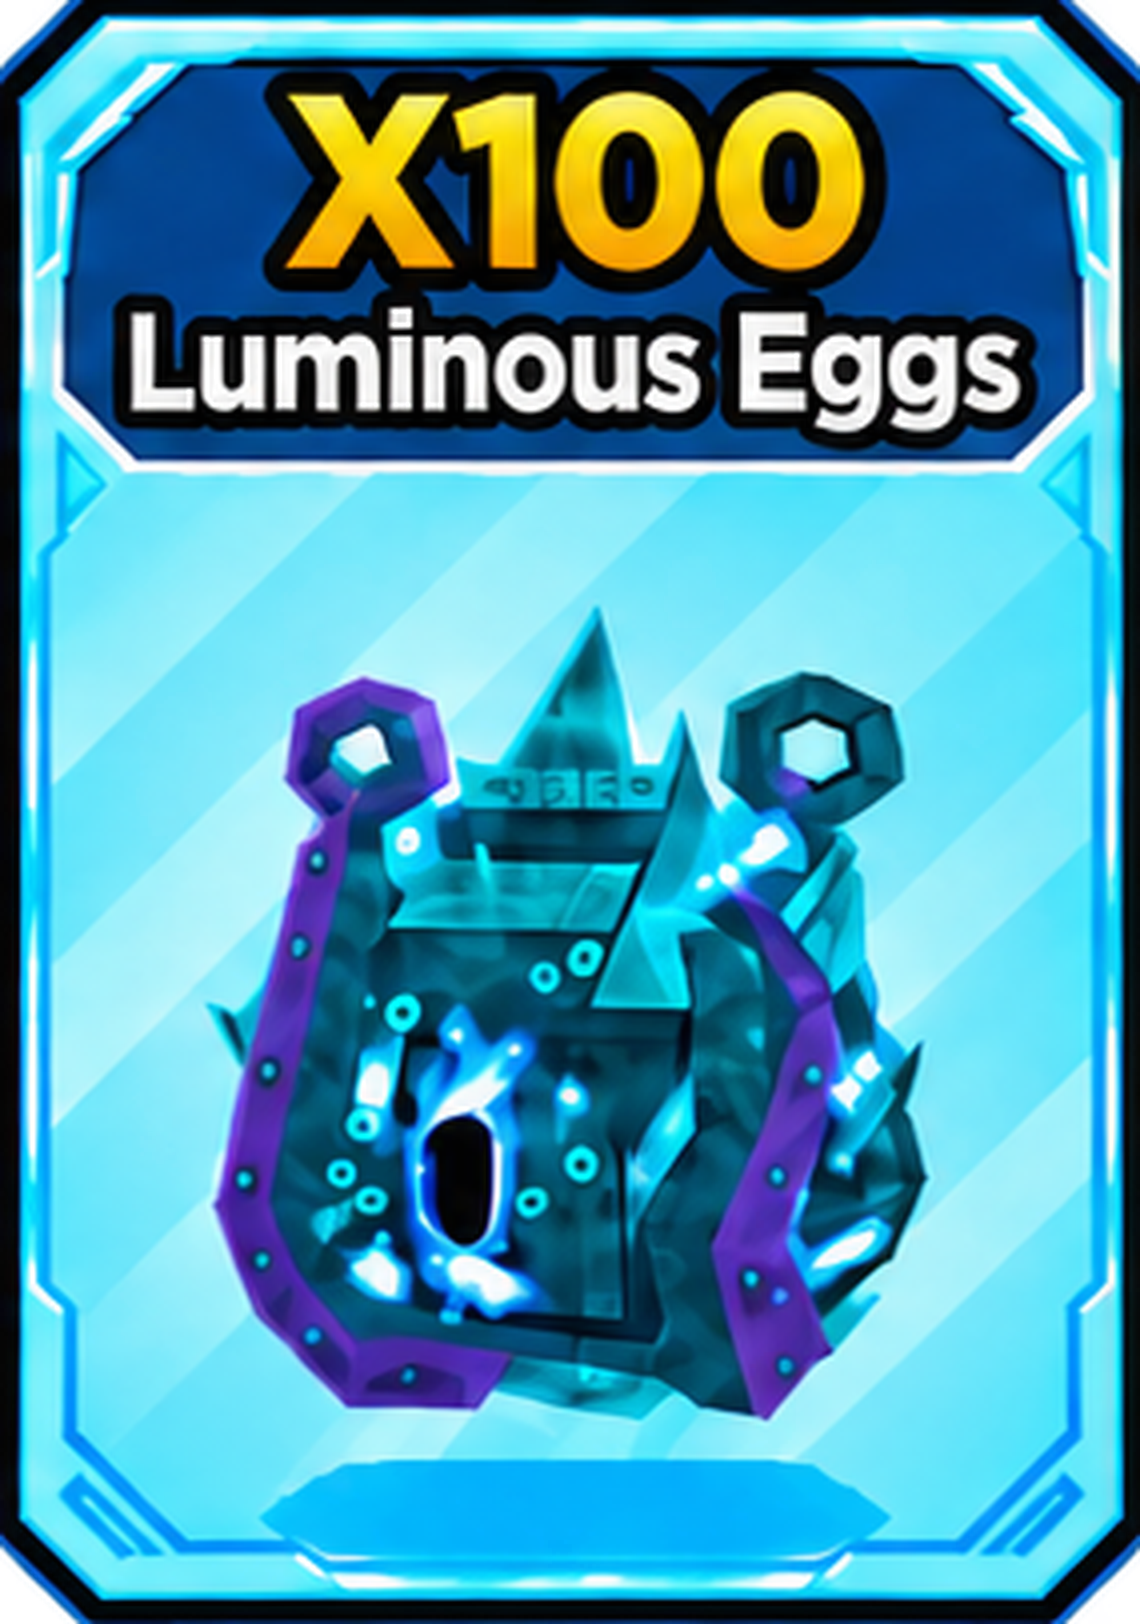
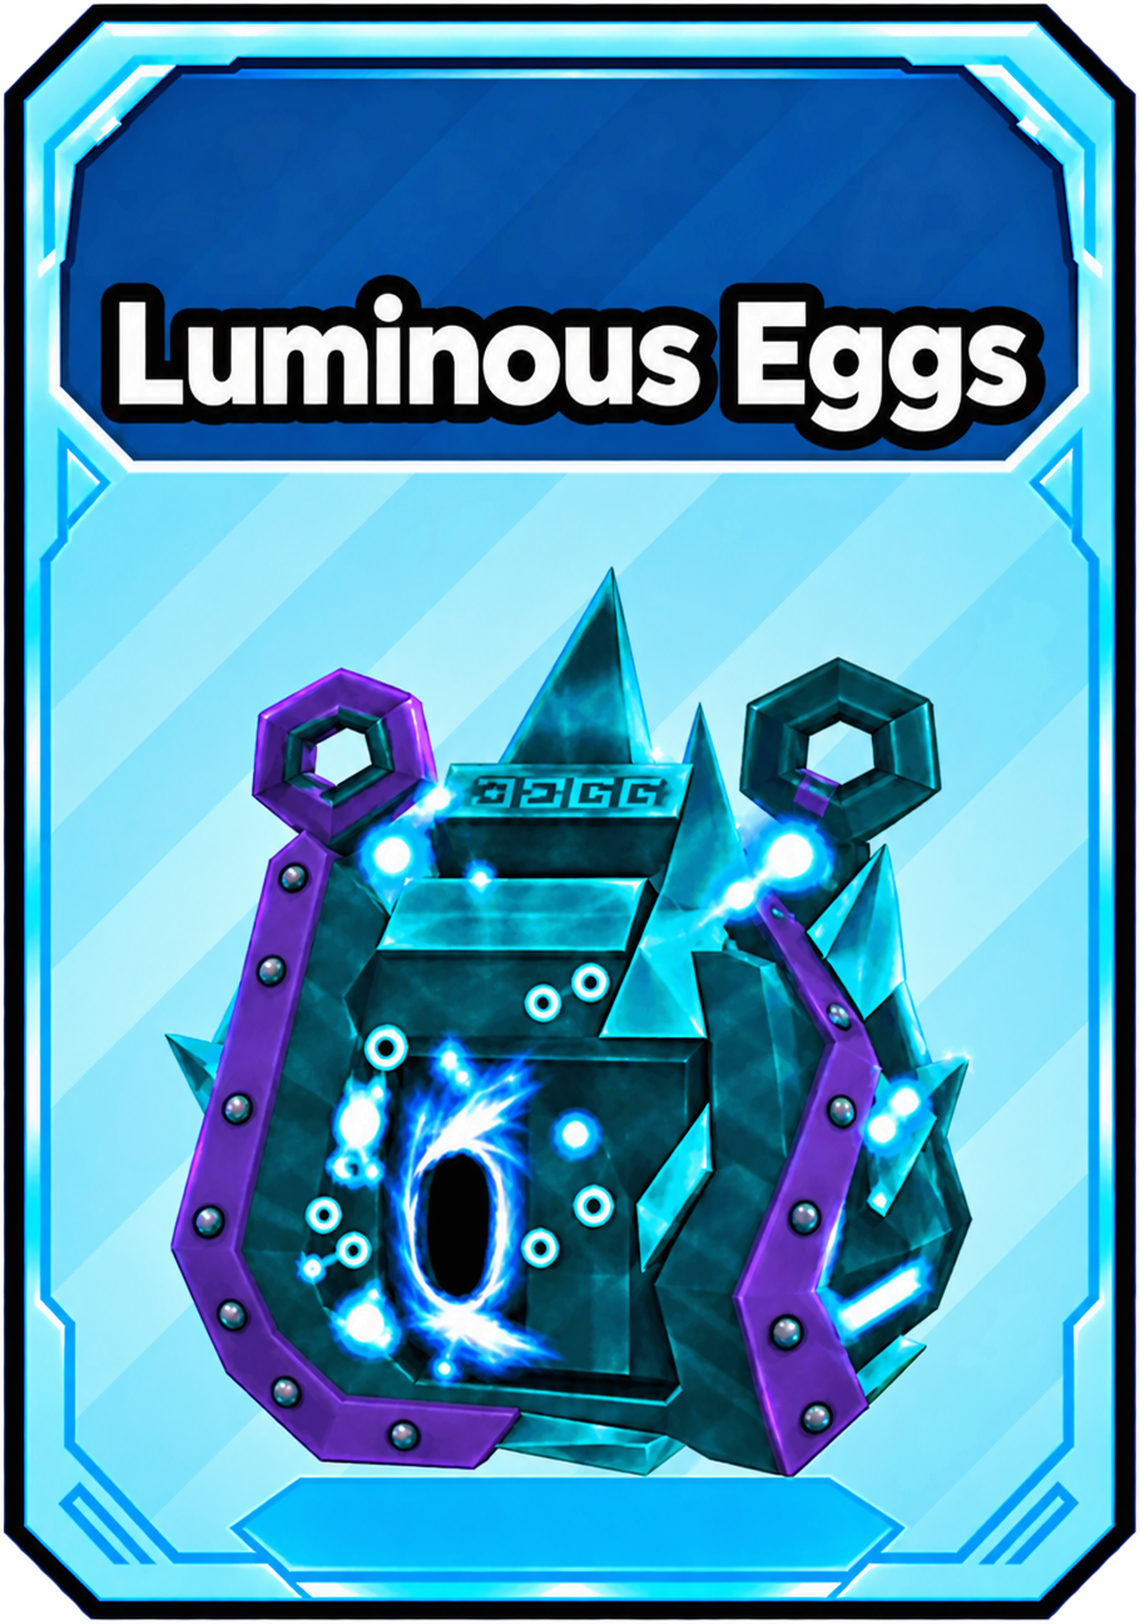
fdfdsf

diff --git a/config.js b/config.js
@@ -1,1 +1,1 @@
-window.SAE_CONFIG={"version":"5.28-eggs-multiplier","cards":[{"id":"kitsune","name":"Kitsune","base":1800000000,"box":[22,93,285,405],"dynamic":true},{"id":"luminous_cthulhu","name":"Luminous Cthulhu","base":13000000000,"box":[320,92,292,407],"dynamic":true},{"id":"archangel","name":"ArchAngel","base":5000000000,"box":[625,92,286,407],"dynamic":true},{"id":"aetheron","name":"Aetheron","base":6900000000,"box":[922,92,293,407],"dynamic":true},{"id":"world_burner_cthulhu","name":"World Burner Cthulhu","base":5000000000,"box":[1224,92,294,407],"dynamic":true},{"id":"shattered_colossus","name":"Shattered Colossus","base":3500000000,"box":[21,515,286,407],"dynamic":true},{"id":"nightflame","name":"Nightflame","base":3000000000,"box":[320,516,293,407],"dynamic":true},{"id":"luminous_eggs","name":"Luminous Eggs","base":null,"box":[625,516,285,406],"dynamic":false},{"id":"cthulhu","name":"Cthulhu","base":5000000000,"box":[923,516,292,406],"dynamic":true},{"id":"mecha_dreadscale","name":"Mecha Dreadscale","base":4000000000,"box":[1230,516,285,406],"dynamic":true}],"mutations":{"silver":{"label":"Silver","multiplier":1.2},"golden":{"label":"Golden","multiplier":2.5},"rainbow":{"label":"Rainbow","multiplier":3.5},"bloom":{"label":"Bloom","multiplier":1.25},"spirit_bloom":{"label":"Spirit Bloom","multiplier":2.5},"parasite":{"label":"Parasite","multiplier":3.0},"fractured":{"label":"Fractured","multiplier":2.75}},"backend":"https://steal-an-egg-overlay-backend.leducho1900.workers.dev","room":"sae_421045db4089999b697c52d464c44d3a"};
+window.SAE_CONFIG={"version":"5.29-new-eggs-card","cards":[{"id":"kitsune","name":"Kitsune","base":1800000000,"box":[22,93,285,405],"dynamic":true},{"id":"luminous_cthulhu","name":"Luminous Cthulhu","base":13000000000,"box":[320,92,292,407],"dynamic":true},{"id":"archangel","name":"ArchAngel","base":5000000000,"box":[625,92,286,407],"dynamic":true},{"id":"aetheron","name":"Aetheron","base":6900000000,"box":[922,92,293,407],"dynamic":true},{"id":"world_burner_cthulhu","name":"World Burner Cthulhu","base":5000000000,"box":[1224,92,294,407],"dynamic":true},{"id":"shattered_colossus","name":"Shattered Colossus","base":3500000000,"box":[21,515,286,407],"dynamic":true},{"id":"nightflame","name":"Nightflame","base":3000000000,"box":[320,516,293,407],"dynamic":true},{"id":"luminous_eggs","name":"Luminous Eggs","base":null,"box":[625,516,285,406],"dynamic":false},{"id":"cthulhu","name":"Cthulhu","base":5000000000,"box":[923,516,292,406],"dynamic":true},{"id":"mecha_dreadscale","name":"Mecha Dreadscale","base":4000000000,"box":[1230,516,285,406],"dynamic":true}],"mutations":{"silver":{"label":"Silver","multiplier":1.2},"golden":{"label":"Golden","multiplier":2.5},"rainbow":{"label":"Rainbow","multiplier":3.5},"bloom":{"label":"Bloom","multiplier":1.25},"spirit_bloom":{"label":"Spirit Bloom","multiplier":2.5},"parasite":{"label":"Parasite","multiplier":3.0},"fractured":{"label":"Fractured","multiplier":2.75}},"backend":"https://steal-an-egg-overlay-backend.leducho1900.workers.dev","room":"sae_421045db4089999b697c52d464c44d3a"};

diff --git a/control.html b/control.html
@@ -3,7 +3,7 @@
 <head>
 <meta charset="utf-8"><meta name="viewport" content="width=device-width,initial-scale=1">
 <meta http-equiv="Cache-Control" content="no-cache, no-store, must-revalidate">
-<title>Steal An Egg Control V5.28</title>
+<title>Steal An Egg Control V5.29</title>
 <style>
 *{box-sizing:border-box}
 body{margin:0;background:#0b0d11;color:#fff;font-family:Arial,Helvetica,sans-serif}
@@ -68,7 +68,7 @@ button{border:0;border-radius:10px;padding:10px 13px;font-weight:900;cursor:poin
 @media(max-width:800px){.grid{grid-template-columns:1fr}.muts{grid-template-columns:repeat(2,1fr)}}
 </style>
 </head><body><main>
-<h1>🥚 Steal An Egg Control V5.28 — FIXED</h1>
+<h1>🥚 Steal An Egg Control V5.29 — FIXED</h1>
 <div class="sub"><span class="syncstatus" id="syncStatus">● Đang kiểm tra D1...</span> 
 Weight nhập <b>1–1000</b>. <b>Weight 1 = đúng tiền gốc</b>; tăng Weight thì tự nhân theo đường cong size.
 Mutation cộng bonus theo hệ số. Weight/Mutation tự tính tiền. Đồng bộ qua Cloudflare D1, không dùng Cache API. Weight/Mutation/Bật-Tắt/x2–x10 cập nhật chung một state; x1 không hiện nhãn, Luminous Eggs không có nhãn số lượng.
@@ -529,7 +529,7 @@ allOn.onclick=()=>{for(const c of CFG.cards)state.cards[c.id].enabled=true;saveA
 allOff.onclick=()=>{for(const c of CFG.cards)state.cards[c.id].enabled=false;saveAndPublish()};
 reset.onclick=()=>{for(const c of CFG.cards){state.cards[c.id].weight=1;state.cards[c.id].mutations=[];state.cards[c.id].qty=1;if(c.id==="luminous_eggs")state.cards[c.id].eggMult=100}saveAndPublish()};
 copyLink.onclick=async()=>{
- const u=new URL("index.html?v=528",location.href).href;
+ const u=new URL("index.html?v=529",location.href).href;
  try{await navigator.clipboard.writeText(u);copyLink.textContent="ĐÃ COPY";setTimeout(()=>copyLink.textContent="Copy Overlay Link",1200)}
  catch(_e){prompt("Copy link Overlay:",u)}
 };

diff --git a/index.html b/index.html
@@ -4,7 +4,7 @@
 <meta charset="utf-8">
 <meta name="viewport" content="width=device-width,initial-scale=1">
 <meta http-equiv="Cache-Control" content="no-cache, no-store, must-revalidate">
-<title>Steal An Egg Overlay V5.28 EGGS MULTIPLIER</title>
+<title>Steal An Egg Overlay V5.29 NEW EGGS CARD</title>
 <style>
 *{box-sizing:border-box}
 html,body{margin:0;width:100%;height:100%;background:transparent!important;overflow:hidden}
@@ -148,22 +148,14 @@ body{font-family:Arial,Helvetica,sans-serif}
 /* Luminous Eggs: đổi X100/X200...X1000 bằng text tự tạo.
    Chỉ phủ đúng dòng X100 trên thẻ trứng, không đụng pet/card khác. */
 .egg-mult-cover{
-  position:absolute;
-  left:14.5%;
-  right:14.5%;
-  top:6.0%;
-  height:15.2%;
-  z-index:30;
-  border-radius:9px;
-  pointer-events:none;
-  background:linear-gradient(180deg,#074688 0%,#06346d 100%);
+  display:none!important;
 }
 .egg-mult-text{
   position:absolute;
   left:5%;
   right:5%;
-  top:5.0%;
-  height:16.5%;
+  top:4.1%;
+  height:17.0%;
   z-index:31;
   display:flex;
   align-items:center;
@@ -171,7 +163,7 @@ body{font-family:Arial,Helvetica,sans-serif}
   pointer-events:none;
   font-family:"Arial Black","DejaVu Sans",Arial,sans-serif;
   font-weight:1000;
-  font-size:16.2cqw;
+  font-size:16.0cqw;
   line-height:.9;
   letter-spacing:-.04em;
   color:#ffd719;
